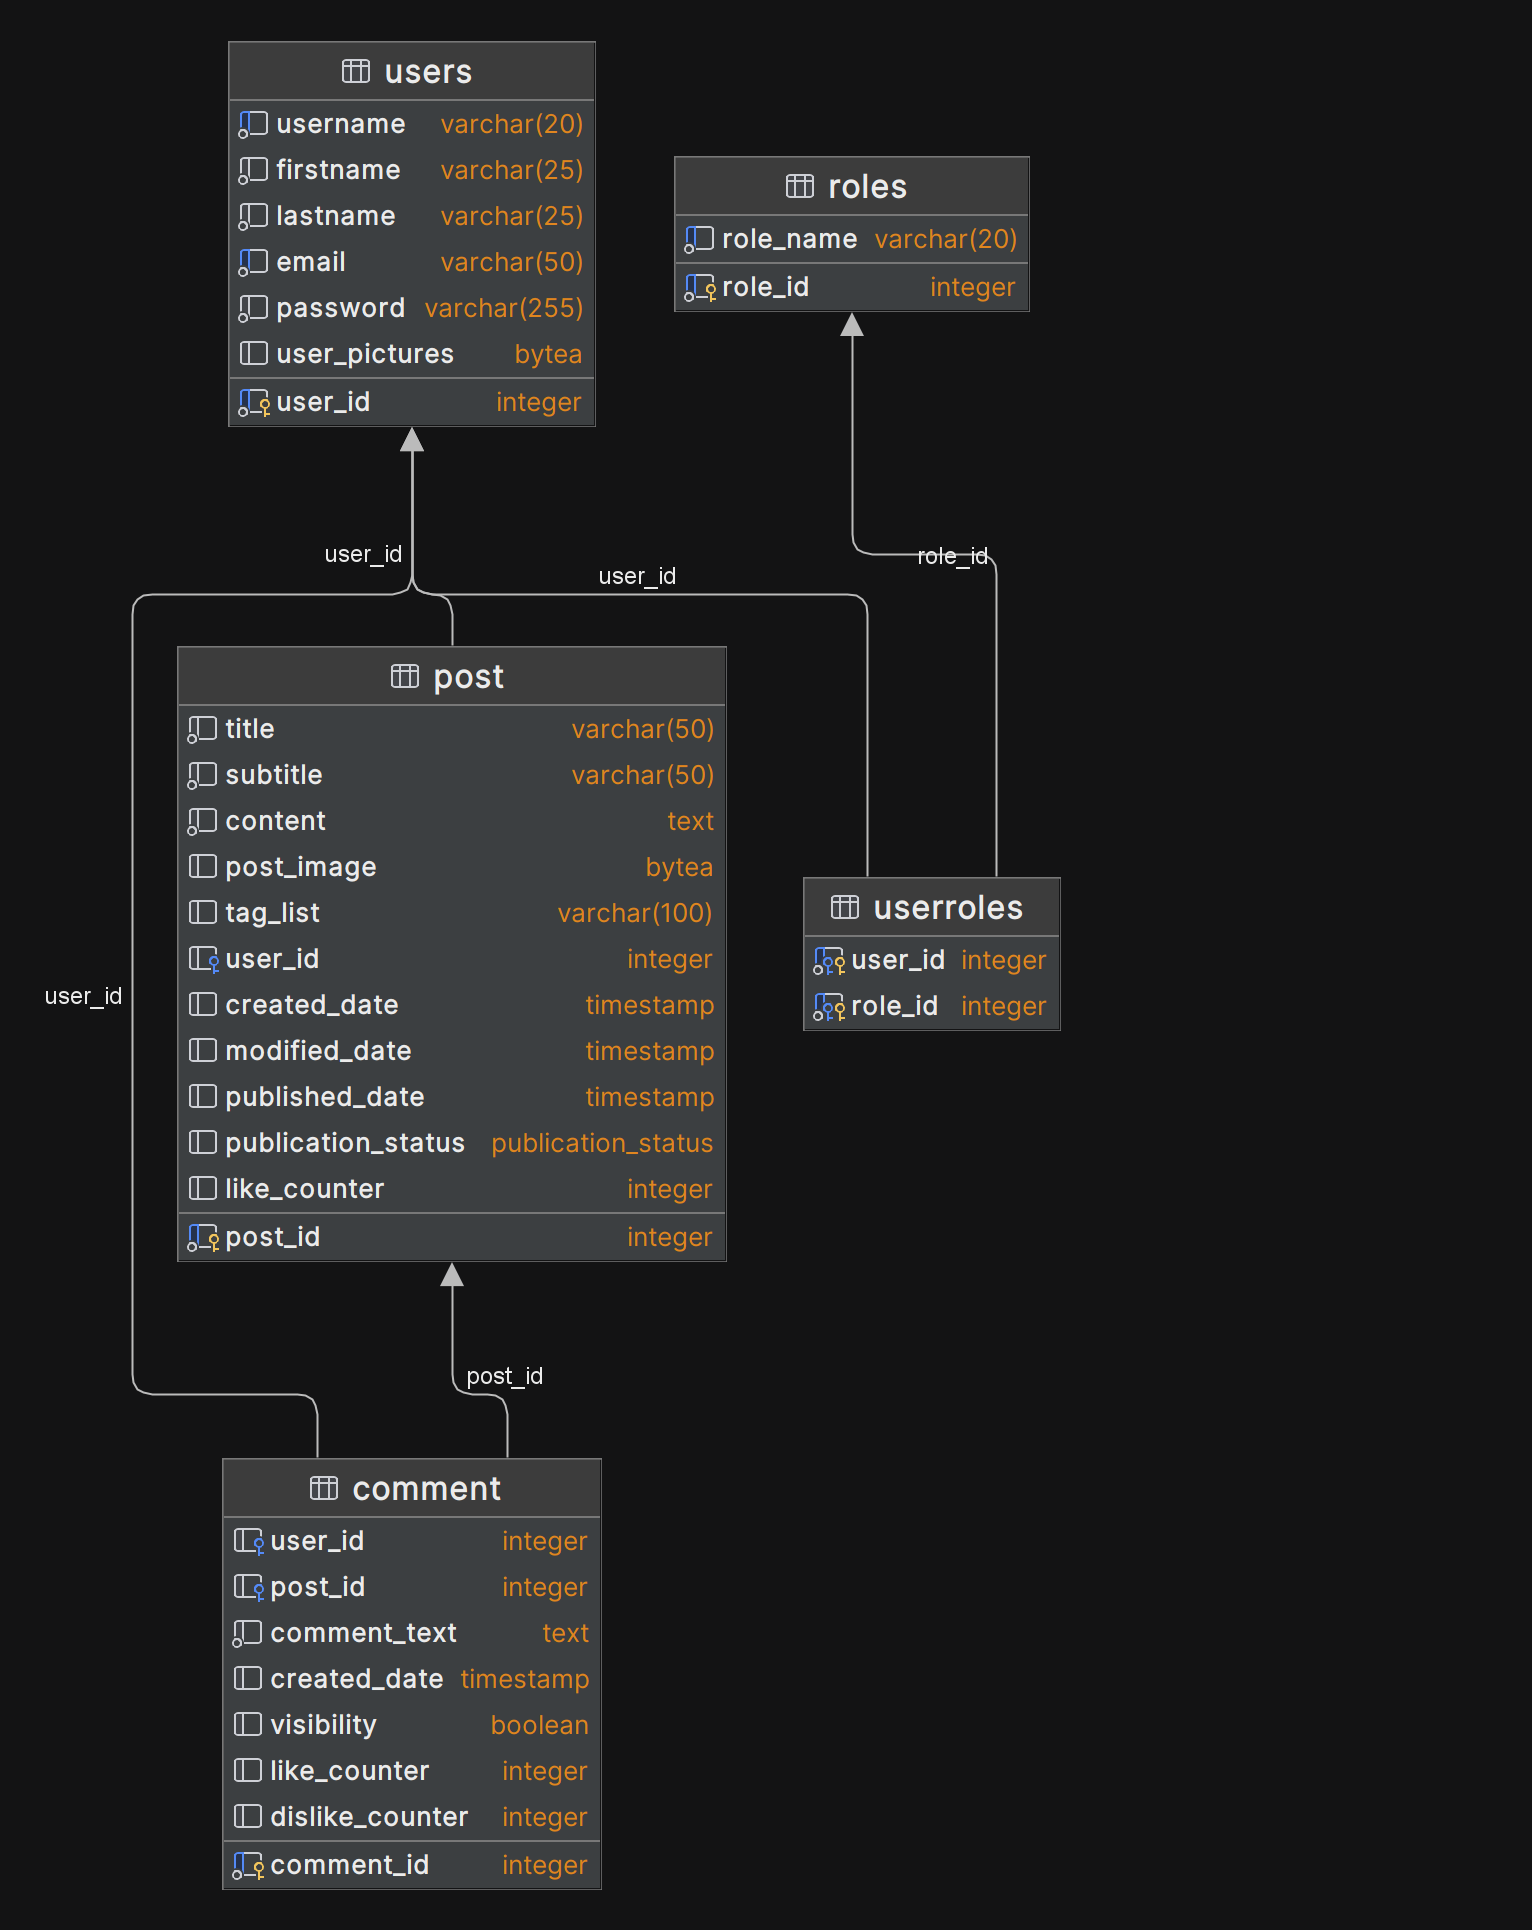
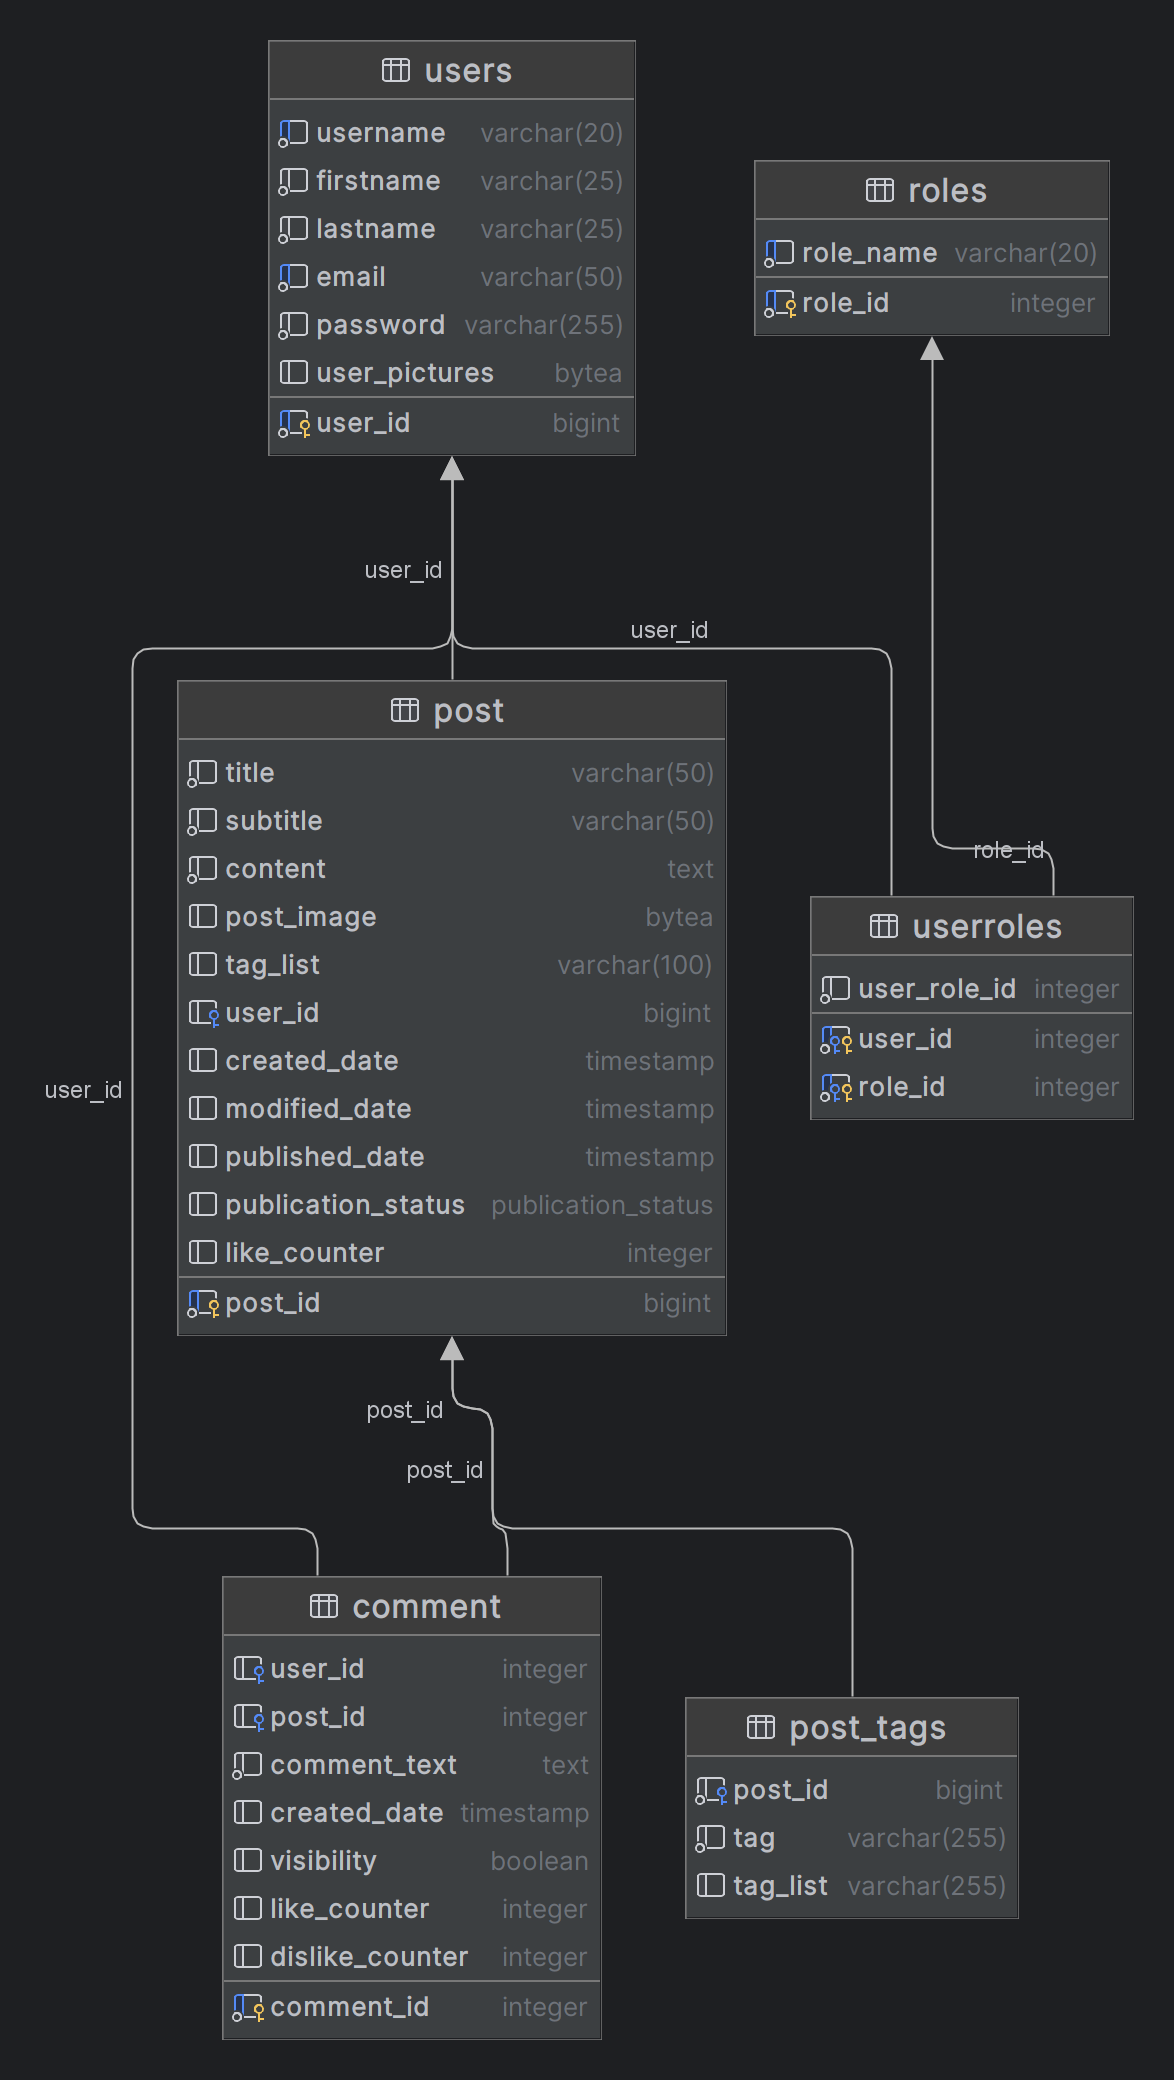
new futures

diff --git a/src/main/java/org/sersun/simpleblog/service/PostService.java b/src/main/java/org/sersun/simpleblog/service/PostService.java
@@ -1,19 +1,33 @@
 package org.sersun.simpleblog.service;
 
+import org.sersun.simpleblog.model.PublicationStatus;
+import org.sersun.simpleblog.model.Users;
+import org.sersun.simpleblog.repository.UserRepository;
+import org.springframework.http.HttpStatus;
 import org.springframework.transaction.annotation.Transactional;
 import lombok.extern.slf4j.Slf4j;
 import org.sersun.simpleblog.model.Post;
 import org.sersun.simpleblog.repository.PostRepository;
 import org.springframework.stereotype.Service;
 import org.springframework.validation.annotation.Validated;
+import org.springframework.web.server.ResponseStatusException;
+
+import java.util.List;
 
 @Service
 @Validated
 @Slf4j
 public class PostService {
     private final PostRepository postRepository;
-    public PostService(PostRepository postRepository) {
+    private final UserRepository userRepository;
+
+    private final AsyncEmailService asyncEmailService;
+    public PostService(PostRepository postRepository,
+                       UserRepository userRepository,
+                       AsyncEmailService asyncEmailService) {
         this.postRepository = postRepository;
+        this.userRepository = userRepository;
+        this.asyncEmailService = asyncEmailService;
     }
 
     @Transactional
@@ -27,4 +41,183 @@ public class PostService {
             throw e;
         }
     }
+
+    @Transactional
+    public void updatePost(Long postId, Post post) {
+        try {
+            Post existingPost = postRepository.findById(postId)
+                    .orElseThrow(() -> new ResponseStatusException(HttpStatus.NOT_FOUND, "Post with id " + postId + " not found"));
+            post.setPostId(postId);
+            Post updatedPost = postRepository.save(post);
+            log.info("Post updated, id: {}", updatedPost.getPostId());
+        } catch (Exception e) {
+            log.error("Error updating post", e);
+            throw e;
+        }
+    }
+
+    @Transactional
+    public void deletePost(Long postId) {
+        try {
+            Post post = postRepository.findById(postId)
+                    .orElseThrow(() -> new ResponseStatusException(HttpStatus.NOT_FOUND, "Post with id " + postId + " not found"));
+            postRepository.delete(post);
+            log.info("Post deleted, id: {}", postId);
+        } catch (Exception e) {
+            log.error("Error deleting post", e);
+            throw e;
+        }
+    }
+
+    @Transactional(readOnly = true)
+    public Post getPostById(Long postId) {
+        try {
+            Post post = postRepository.findById(postId)
+                    .orElseThrow(() -> new ResponseStatusException(HttpStatus.NOT_FOUND, "Post with id " + postId + " not found"));
+            log.info("Post found, id: {}", postId);
+            return post;
+        } catch (Exception e) {
+            log.error("Error getting post", e);
+            throw e;
+        }
+    }
+
+    @Transactional(readOnly = true)
+    public List<Post> getPostsByUserId(Long userId) {
+        try {
+            List<Post> posts = postRepository.findAllByUserUserId(userId);
+            log.info("Posts found, user id: {}", userId);
+            return posts;
+        } catch (Exception e) {
+            log.error("Error getting posts by user id", e);
+            throw e;
+        }
+    }
+
+    @Transactional
+    public void publishPost(Long postId) {
+        try {
+            Post post = postRepository.findById(postId)
+                    .orElseThrow(() -> new ResponseStatusException(HttpStatus.NOT_FOUND, "Post with id " + postId + " not found"));
+            post.setPublicationStatus(PublicationStatus.PUBLISHED);
+            postRepository.save(post);
+            log.info("Post published, id: {}", postId);
+        } catch (Exception e) {
+            log.error("Error publishing post", e);
+            throw e;
+        }
+    }
+
+    @Transactional
+    public void unPublishPost(Long postId) {
+        try {
+            Post post = postRepository.findById(postId)
+                    .orElseThrow(() -> new ResponseStatusException(HttpStatus.NOT_FOUND, "Post with id " + postId + " not found"));
+            post.setPublicationStatus(PublicationStatus.DRAFT);
+            postRepository.save(post);
+            log.info("Post unpublished, id: {}", postId);
+        } catch (Exception e) {
+            log.error("Error unpublishing post", e);
+            throw e;
+        }
+    }
+
+    @Transactional
+    public void likePost(Long postId) {
+        try {
+            Post post = postRepository.findById(postId)
+                    .orElseThrow(() -> new ResponseStatusException(HttpStatus.NOT_FOUND, "Post with id " + postId + " not found"));
+            post.setLikeCounter(post.getLikeCounter() + 1);
+            postRepository.save(post);
+            log.info("Post liked, id: {}", postId, "likeCounter: {}", post.getLikeCounter());
+        } catch (Exception e) {
+            log.error("Error liking post", e);
+            throw e;
+        }
+    }
+
+    @Transactional
+    public void unLikePost(Long postId) {
+        try {
+            Post post = postRepository.findById(postId)
+                    .orElseThrow(() -> new ResponseStatusException(HttpStatus.NOT_FOUND, "Post with id " + postId + " not found"));
+            post.setLikeCounter(post.getLikeCounter() - 1);
+            postRepository.save(post);
+            log.info("Post unliked, id: {}", postId, "likeCounter: {}", post.getLikeCounter());
+        } catch (Exception e) {
+            log.error("Error unliking post", e);
+            throw e;
+        }
+    }
+
+    @Transactional(readOnly = true)
+    public List<Post> getPostsByTagNamesContaining(String tagName) {
+        try {
+            List<Post> posts = postRepository.findAllByTagListContainingIgnoreCase(tagName);
+            if (posts.isEmpty()) {
+                log.info("No posts found for tag name: {}", tagName);
+            } else {
+                log.info("Found {} posts for tag name: {}", posts.size(), tagName);
+            }
+            return posts;
+        } catch (Exception e) {
+            log.error("Error getting posts by tag name", e);
+            throw e;
+        }
+    }
+
+    @Transactional(readOnly = true)
+    public List<Post> getPostsByUserIdAndPublicationStatus(Long userId, PublicationStatus publicationStatus) {
+        try {
+            List<Post> posts = postRepository.findAllByPublicationStatusAndUserUserId(publicationStatus, userId);
+            if (posts.isEmpty()) {
+                log.info("No posts found for user id: {} and publication status: {}", userId, publicationStatus);
+            } else {
+                log.info("Found {} posts for user id: {} and publication status: {}", posts.size(), userId, publicationStatus);
+            }
+            return posts;
+        } catch (Exception e) {
+            log.error("Error getting posts by user id and publication status", e);
+            throw e;
+        }
+    }
+
+    @Transactional
+    public void blockUser(Long userId) {
+        try {
+            Users user = userRepository.findById(userId)
+                    .orElseThrow(() -> new ResponseStatusException(HttpStatus.NOT_FOUND, "User with id " + userId + " not found"));
+            int updatedCount = postRepository.updatePublicationStatusForUser(userId, PublicationStatus.REJECTED);
+            asyncEmailService.sendEmail(user.getEmail(),
+                    "Your Account has been blocked",
+                    "Hi, " + user.getFirstname() + " " + user.getLastname() +
+                    "\nYour account has been blocked.\n You cannot publish new posts and republish old ones.");
+            log.info("User blocked, id: {}. Total posts updated: {}", userId, updatedCount);
+        } catch (Exception e) {
+            log.error("Error blocking user", e);
+            throw e;
+        }
+    }
+
+    @Transactional
+    public void unblockUser(Long userId) {
+        try {
+            Users user = userRepository.findById(userId)
+                    .orElseThrow(() -> new ResponseStatusException(HttpStatus.NOT_FOUND, "User with id " + userId + " not found"));
+            int updatedCount = postRepository.updatePublicationStatusForUser(userId, PublicationStatus.DRAFT);
+            asyncEmailService.sendEmail(user.getEmail(),
+                    "Your Account has been blocked",
+                    "Hi, " + user.getFirstname() + " " + user.getLastname() +
+                            "\nYour account has been unblocked.\nYou can now publish new posts and republish old ones.");
+            log.info("User unblocked, id: {}. Total posts updated: {}", userId, updatedCount);
+        } catch (Exception e) {
+            log.error("Error unblocking user", e);
+            throw e;
+        }
+    }
+
+    // TODO: add other methods as:
+    //  hidePostByAdmin, unHidePostByAdmin
+
+
 }

diff --git a/src/main/java/org/sersun/simpleblog/service/UsersService.java b/src/main/java/org/sersun/simpleblog/service/UsersService.java
@@ -1,11 +1,15 @@
 package org.sersun.simpleblog.service;
 
 import lombok.extern.slf4j.Slf4j;
+import org.sersun.simpleblog.model.UserRoles;
 import org.sersun.simpleblog.model.Users;
 import org.sersun.simpleblog.repository.UserRepository;
+import org.sersun.simpleblog.repository.UserRoleRepository;
 import org.springframework.beans.factory.annotation.Autowired;
+import org.springframework.http.HttpStatus;
 import org.springframework.security.crypto.bcrypt.BCryptPasswordEncoder;
 import org.springframework.stereotype.Service;
+import org.springframework.web.server.ResponseStatusException;
 
 @Service
 @Slf4j
@@ -14,6 +18,8 @@ public class UsersService {
     BCryptPasswordEncoder bCryptPasswordEncoder;
     @Autowired
     UserRepository userRepository;
+    @Autowired
+    UserRoleRepository userRoleRepository;
 
     public void createUser(Users user){
         try {
@@ -22,8 +28,13 @@ public class UsersService {
             user.setPassword(encodedPassword);
             userRepository.save(user);
             log.info("User {} created", user.getUsername());
+
+            // assign reader role to new user
+            userRoleRepository.save(new UserRoles(null, user.getUserId(), 4));
+            
         }catch (Exception e){
             log.error("Error creating user {}", user.getUsername(), e);
         }
     }
+
 }

diff --git a/src/main/java/org/sersun/simpleblog/model/UserRoles.java b/src/main/java/org/sersun/simpleblog/model/UserRoles.java
@@ -1,0 +1,51 @@
+package org.sersun.simpleblog.model;
+
+import jakarta.persistence.Column;
+import jakarta.persistence.Entity;
+import jakarta.persistence.Id;
+import jakarta.persistence.Table;
+import lombok.*;
+
+import java.util.Objects;
+
+@Entity
+@Getter
+@Setter
+@AllArgsConstructor
+@NoArgsConstructor
+@Builder
+@Table(name="userroles")
+public class UserRoles {
+
+    @Id
+    @Column(name = "user_role_id")
+    private Long userRoleId;
+
+    @Column(name = "user_id")
+    private Long userId;
+
+    @Column(name = "role_id")
+    private int roleId;
+
+    @Override
+    public String toString() {
+        return "UserRoles{" +
+                "userRoleId=" + userRoleId +
+                ", userId=" + userId +
+                ", roleId=" + roleId +
+                '}';
+    }
+
+    @Override
+    public boolean equals(Object o) {
+        if (this == o) return true;
+        if (o == null || getClass() != o.getClass()) return false;
+        UserRoles that = (UserRoles) o;
+        return Objects.equals(userRoleId, that.userRoleId);
+    }
+
+    @Override
+    public int hashCode() {
+        return Objects.hash(userRoleId);
+    }
+}

diff --git a/src/main/java/org/sersun/simpleblog/repository/PostRepository.java b/src/main/java/org/sersun/simpleblog/repository/PostRepository.java
@@ -1,12 +1,27 @@
 package org.sersun.simpleblog.repository;
 
 import org.sersun.simpleblog.model.Post;
+import org.sersun.simpleblog.model.PublicationStatus;
 import org.springframework.data.jpa.repository.JpaRepository;
+import org.springframework.data.jpa.repository.Modifying;
+import org.springframework.data.jpa.repository.Query;
+import org.springframework.data.repository.query.Param;
 import org.springframework.stereotype.Repository;
 
 import java.util.List;
 
 @Repository
 public interface PostRepository extends JpaRepository<Post, Long> {
+
+    List<Post> findAllByUserUserId(Long userId);
+
+    List<Post> findAllByTagListContainingIgnoreCase(String tag);
+
+    List<Post> findAllByPublicationStatusAndUserUserId(PublicationStatus publicationStatus, Long userId);
+
+    @Modifying
+    @Query("UPDATE Post p SET p.publicationStatus = :status WHERE p.user.userId = :userId")
+    int updatePublicationStatusForUser(@Param("userId") Long userId, @Param("status") PublicationStatus status);
+
 
 }

diff --git a/src/main/java/org/sersun/simpleblog/service/AsyncEmailService.java b/src/main/java/org/sersun/simpleblog/service/AsyncEmailService.java
@@ -1,0 +1,20 @@
+package org.sersun.simpleblog.service;
+
+import org.springframework.beans.factory.annotation.Autowired;
+import org.springframework.mail.SimpleMailMessage;
+import org.springframework.mail.javamail.JavaMailSender;
+import org.springframework.stereotype.Service;
+
+@Service
+public class AsyncEmailService {
+
+    @Autowired
+    private JavaMailSender mailSender;
+    public void sendEmail(String to, String subject, String content) {
+        SimpleMailMessage message = new SimpleMailMessage();
+        message.setTo(to);
+        message.setSubject(subject);
+        message.setText(content);
+        mailSender.send(message);
+    }
+}

diff --git a/src/main/java/org/sersun/simpleblog/SimpleBlogApplication.java b/src/main/java/org/sersun/simpleblog/SimpleBlogApplication.java
@@ -2,8 +2,10 @@ package org.sersun.simpleblog;
 
 import org.springframework.boot.SpringApplication;
 import org.springframework.boot.autoconfigure.SpringBootApplication;
+import org.springframework.scheduling.annotation.EnableAsync;
 
 @SpringBootApplication
+@EnableAsync
 public class SimpleBlogApplication {
 
     public static void main(String[] args) {

diff --git a/src/main/java/org/sersun/simpleblog/repository/UserRoleRepository.java b/src/main/java/org/sersun/simpleblog/repository/UserRoleRepository.java
@@ -1,0 +1,9 @@
+package org.sersun.simpleblog.repository;
+
+import org.sersun.simpleblog.model.UserRoles;
+import org.springframework.data.jpa.repository.JpaRepository;
+
+public interface UserRoleRepository extends JpaRepository<UserRoles, Long> {
+
+    UserRoles findByUserId(Long userId);
+}

diff --git a/src/main/java/org/sersun/simpleblog/repository/UserRepository.java b/src/main/java/org/sersun/simpleblog/repository/UserRepository.java
@@ -8,4 +8,5 @@ import org.springframework.stereotype.Repository;
 @Repository
 public interface UserRepository extends JpaRepository<Users, Long> {
 
+    Users findByUsername(String username);
 }

diff --git a/src/main/java/org/sersun/simpleblog/README.MD b/src/main/java/org/sersun/simpleblog/README.MD
@@ -2,3 +2,6 @@ Added databases structure and created relationship between tables.
 ![simpleblog.png](..%2F..%2F..%2F..%2Fresources%2Fsimpleblog.png)
 
 SQL Statement for create this DB structure: [CreateDBAndTables.sql](util%2FSQL_Statements%2FCreateDBAndTables.sql)
+
+Roles of users:
+![img.png](img.png)
